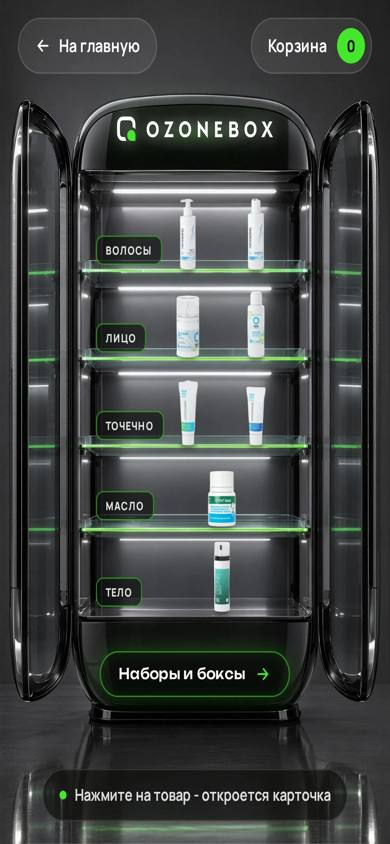
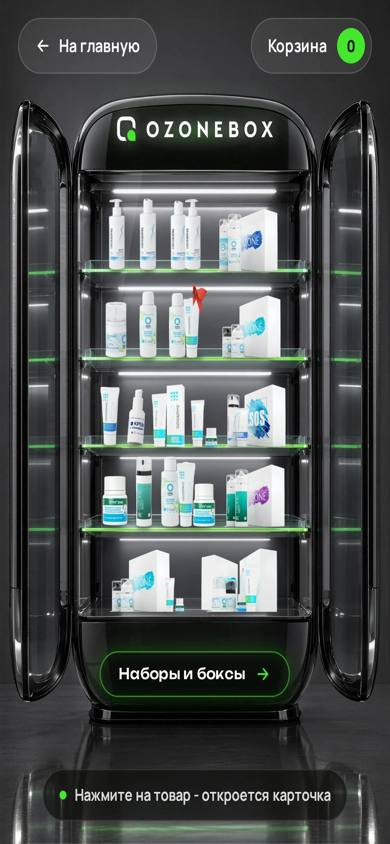
ozonbox-future: все 19 позиций каталога на полках, наборы - рендеры с Google Drive

Changed region(s): [[0.2462, 0.2156, 0.7385, 0.7393]]

diff --git a/ozonbox-future/index.html b/ozonbox-future/index.html
@@ -7,7 +7,7 @@
 <meta name="robots" content="noindex,nofollow">
 <meta name="description" content="Проба OzoneBox Future: товары стоят на полках стеклянного холодильника-витрины, по нажатию открывается карточка.">
 <meta name="theme-color" content="#0b0c0b">
-<link rel="stylesheet" href="shop.css?v=f2">
+<link rel="stylesheet" href="shop.css?v=f3">
 <link rel="preload" as="image" href="img/fridge-16x9.webp" media="(orientation: landscape)" fetchpriority="high">
 <link rel="preload" as="image" href="img/fridge-9x16.webp" media="(orientation: portrait)" fetchpriority="high">
 <style>
@@ -229,7 +229,7 @@ button{font:inherit;color:inherit;background:none;border:0;cursor:pointer}
 </main>
 <p class="hint" id="hint" aria-hidden="true"><i></i>Нажмите на товар - откроется карточка</p>
 
-<script src="shop.js?v=f2"></script>
+<script src="shop.js?v=f3"></script>
 <script>
 // Витрина OzoneBox Future. Фон - картинка пустого холодильника (Higgsfield), товары - настоящие вырезки
 // поверх неё: надписи на упаковке нейросеть не рисует. Координаты полок - доли картинки в процентах.
@@ -239,14 +239,21 @@ button{font:inherit;color:inherit;background:none;border:0;cursor:pointer}
   const port = matchMedia("(orientation: portrait)");
   const $ = (s) => document.querySelector(s);
   // относительная высота упаковки: флакон маски самый высокий, банка масла самая низкая
-  const K = { "maska-volosy": .92, "shampun": .92, "anticellulit": .9, "ochischenie": .86, "ozodermik-3": .84, "ozodermik-5": .76, "dnevnoy-krem": .8, "otri-6000": .72 };
+  const K = { "maska-volosy": .92, "shampun": .92, "maska-shampun": .92, "anticellulit": .9, "ochischenie": .86, "ozodermik-3": .8, "ozodermik-5": .76,
+    "dnevnoy-krem": .72, "krem-pryschi": .72, "otri-6000": .64, "stop-akne": .6, "super-duet": .95, "super-trio": .9,
+    "chistaya-kozha": .8, "idealnoe-telo": .8, "sos-boks": .8, "vosstanovlenie-volos": .8, "set-lico": .8, "super-kombo": .82 };
+  // ширина/высота картинок img/shelf/ - чтобы расставить товары по ширине упаковки
+  const RATIO = {"anticellulit": 0.291, "chistaya-kozha": 1.244, "dnevnoy-krem": 0.479, "idealnoe-telo": 1.244, "krem-pryschi": 0.406, "maska-shampun": 0.542, "maska-volosy": 0.29, "ochischenie": 0.326, "otri-6000": 0.646, "ozodermik-3": 0.67, "ozodermik-5": 0.411, "set-lico": 1.546, "shampun": 0.289, "sos-boks": 1.244, "stop-akne": 0.73, "super-duet": 0.658, "super-kombo": 1.51, "super-trio": 0.981, "vosstanovlenie-volos": 1.244};
   const L = {
-    wide: { boxes: [50, 84.5], screen: [50, 13.2, 16], inner: [35.6, 20.5, 28.8, 59], doors: [35.4, 20, 29.2, 60.5], x: [37.6, 62.4], lab: 5, h: 11,
-      shelves: [[34.1, ["maska-volosy", "shampun"], "Волосы"], [47.9, ["dnevnoy-krem", "ochischenie"], "Лицо"],
-                [60.9, ["ozodermik-3", "ozodermik-5"], "Точечно"], [74.8, ["otri-6000", "anticellulit"], "Масло и тело"]] },
-    tall: { boxes: [50, 78.6], screen: [50, 17.2, 40], inner: [21, 21.5, 58, 50.5], doors: [20.6, 21.2, 58.8, 51], x: [24.5, 74.5], lab: 15, h: 8.8,
-      shelves: [[32.8, ["maska-volosy", "shampun"], "Волосы"], [42.7, ["dnevnoy-krem", "ochischenie"], "Лицо"],
-                [52.7, ["ozodermik-3", "ozodermik-5"], "Точечно"], [61.8, ["otri-6000"], "Масло"], [71.5, ["anticellulit"], "Тело"]] },
+    wide: { boxes: [50, 84.5], screen: [50, 13.2, 16], inner: [35.6, 20.5, 28.8, 59], doors: [35.4, 20, 29.2, 60.5], x: [37.4, 62.6], lab: 4.4, h: 11,
+      shelves: [[34.1, ["maska-volosy", "shampun", "maska-shampun", "vosstanovlenie-volos", "sos-boks"], "Волосы"],
+                [47.9, ["dnevnoy-krem", "ochischenie", "super-duet", "chistaya-kozha", "set-lico"], "Лицо"],
+                [60.9, ["ozodermik-5", "krem-pryschi", "ozodermik-3", "stop-akne", "super-kombo"], "Точечно"],
+                [74.8, ["otri-6000", "anticellulit", "super-trio", "idealnoe-telo"], "Тело"]] },
+    tall: { boxes: [50, 78.6], screen: [50, 17.2, 40], inner: [21, 21.5, 58, 50.5], doors: [20.6, 21.2, 58.8, 51], x: [24, 75], lab: 0, h: 8.8,
+      shelves: [[32.8, ["maska-volosy", "shampun", "maska-shampun", "vosstanovlenie-volos"]], [42.7, ["dnevnoy-krem", "ochischenie", "super-duet", "chistaya-kozha"]],
+                [52.7, ["ozodermik-5", "krem-pryschi", "ozodermik-3", "stop-akne", "sos-boks"]], [61.8, ["otri-6000", "anticellulit", "super-trio", "idealnoe-telo"]],
+                [71.5, ["set-lico", "super-kombo"]]] },
   };
   const stage = $("#stage"), shelves = $("#shelves");
   const setBox = (el, p, [x, y, w, h]) => { el.style.setProperty(p + "x", x + "%"); el.style.setProperty(p + "y", y + "%"); el.style.setProperty(p + "w", w + "%"); el.style.setProperty(p + "h", h + "%"); };
@@ -257,10 +264,19 @@ button{font:inherit;color:inherit;background:none;border:0;cursor:pointer}
     const bx = $("#boxes"); bx.style.setProperty("--bx", c.boxes[0] + "%"); bx.style.setProperty("--by", c.boxes[1] + "%");
     setBox($("#light"), "--i", c.inner); setBox($("#sheen"), "--i", c.inner); setBox($("#doors"), "--d", c.doors);
     const [x0, x1] = c.x;
-    shelves.innerHTML = c.shelves.map(([base, ids, tag]) => `<span class="tagx" style="--x:${x0}%;--b:${(100 - base).toFixed(2)}%">${tag}</span>` + ids.map((id, i) => {
-      const p = byId[id], a0 = x0 + c.lab, x = ids.length === 1 ? (a0 + x1) / 2 : a0 + (x1 - a0) * (i + .5) / ids.length;
-      return `<button class="pr${x < x0 + 6 ? " pr--l" : x > x1 - 6 ? " pr--r" : ""}" type="button" data-id="${id}" style="--x:${x.toFixed(2)}%;--b:${(100 - base).toFixed(2)}%;--h:${(c.h * K[id]).toFixed(2)}%" aria-label="${p[1]}, ${rub(p[2])}"><span class="pr__in"><img src="img/cut/${id}.webp" alt="" draggable="false"><span class="pr__tag">${p[1]}<b>${rub(p[2])}</b></span></span></button>`;
-    }).join("")).join("");
+    const asp = port.matches ? 16 / 9 : 9 / 16; // высота сцены / ширина сцены
+    shelves.innerHTML = c.shelves.map(([base, ids, tag]) => {
+      const a0 = x0 + c.lab, room = x1 - a0;
+      let hs = ids.map((id) => c.h * K[id]), ws = ids.map((id, i) => hs[i] * RATIO[id] * asp);
+      const sum = ws.reduce((a, b) => a + b, 0), f = Math.min(1, room * .94 / sum);
+      hs = hs.map((h) => h * f); ws = ws.map((w) => w * f);
+      const gap = (room - sum * f) / (ids.length + 1);
+      let at = a0 + gap;
+      return (tag ? `<span class="tagx" style="--x:${x0}%;--b:${(100 - base).toFixed(2)}%">${tag}</span>` : "") + ids.map((id, i) => {
+        const p = byId[id], x = at + ws[i] / 2; at += ws[i] + gap;
+        return `<button class="pr${i === 0 ? " pr--l" : i === ids.length - 1 ? " pr--r" : ""}" type="button" data-id="${id}" style="--x:${x.toFixed(2)}%;--b:${(100 - base).toFixed(2)}%;--h:${hs[i].toFixed(2)}%" aria-label="${p[1]}, ${rub(p[2])}"><span class="pr__in"><img src="img/shelf/${id}.webp" alt="" draggable="false"><span class="pr__tag">${p[1]}<b>${rub(p[2])}</b></span></span></button>`;
+      }).join("");
+    }).join("");
     items = [...shelves.querySelectorAll(".pr")];
   };
   render();
